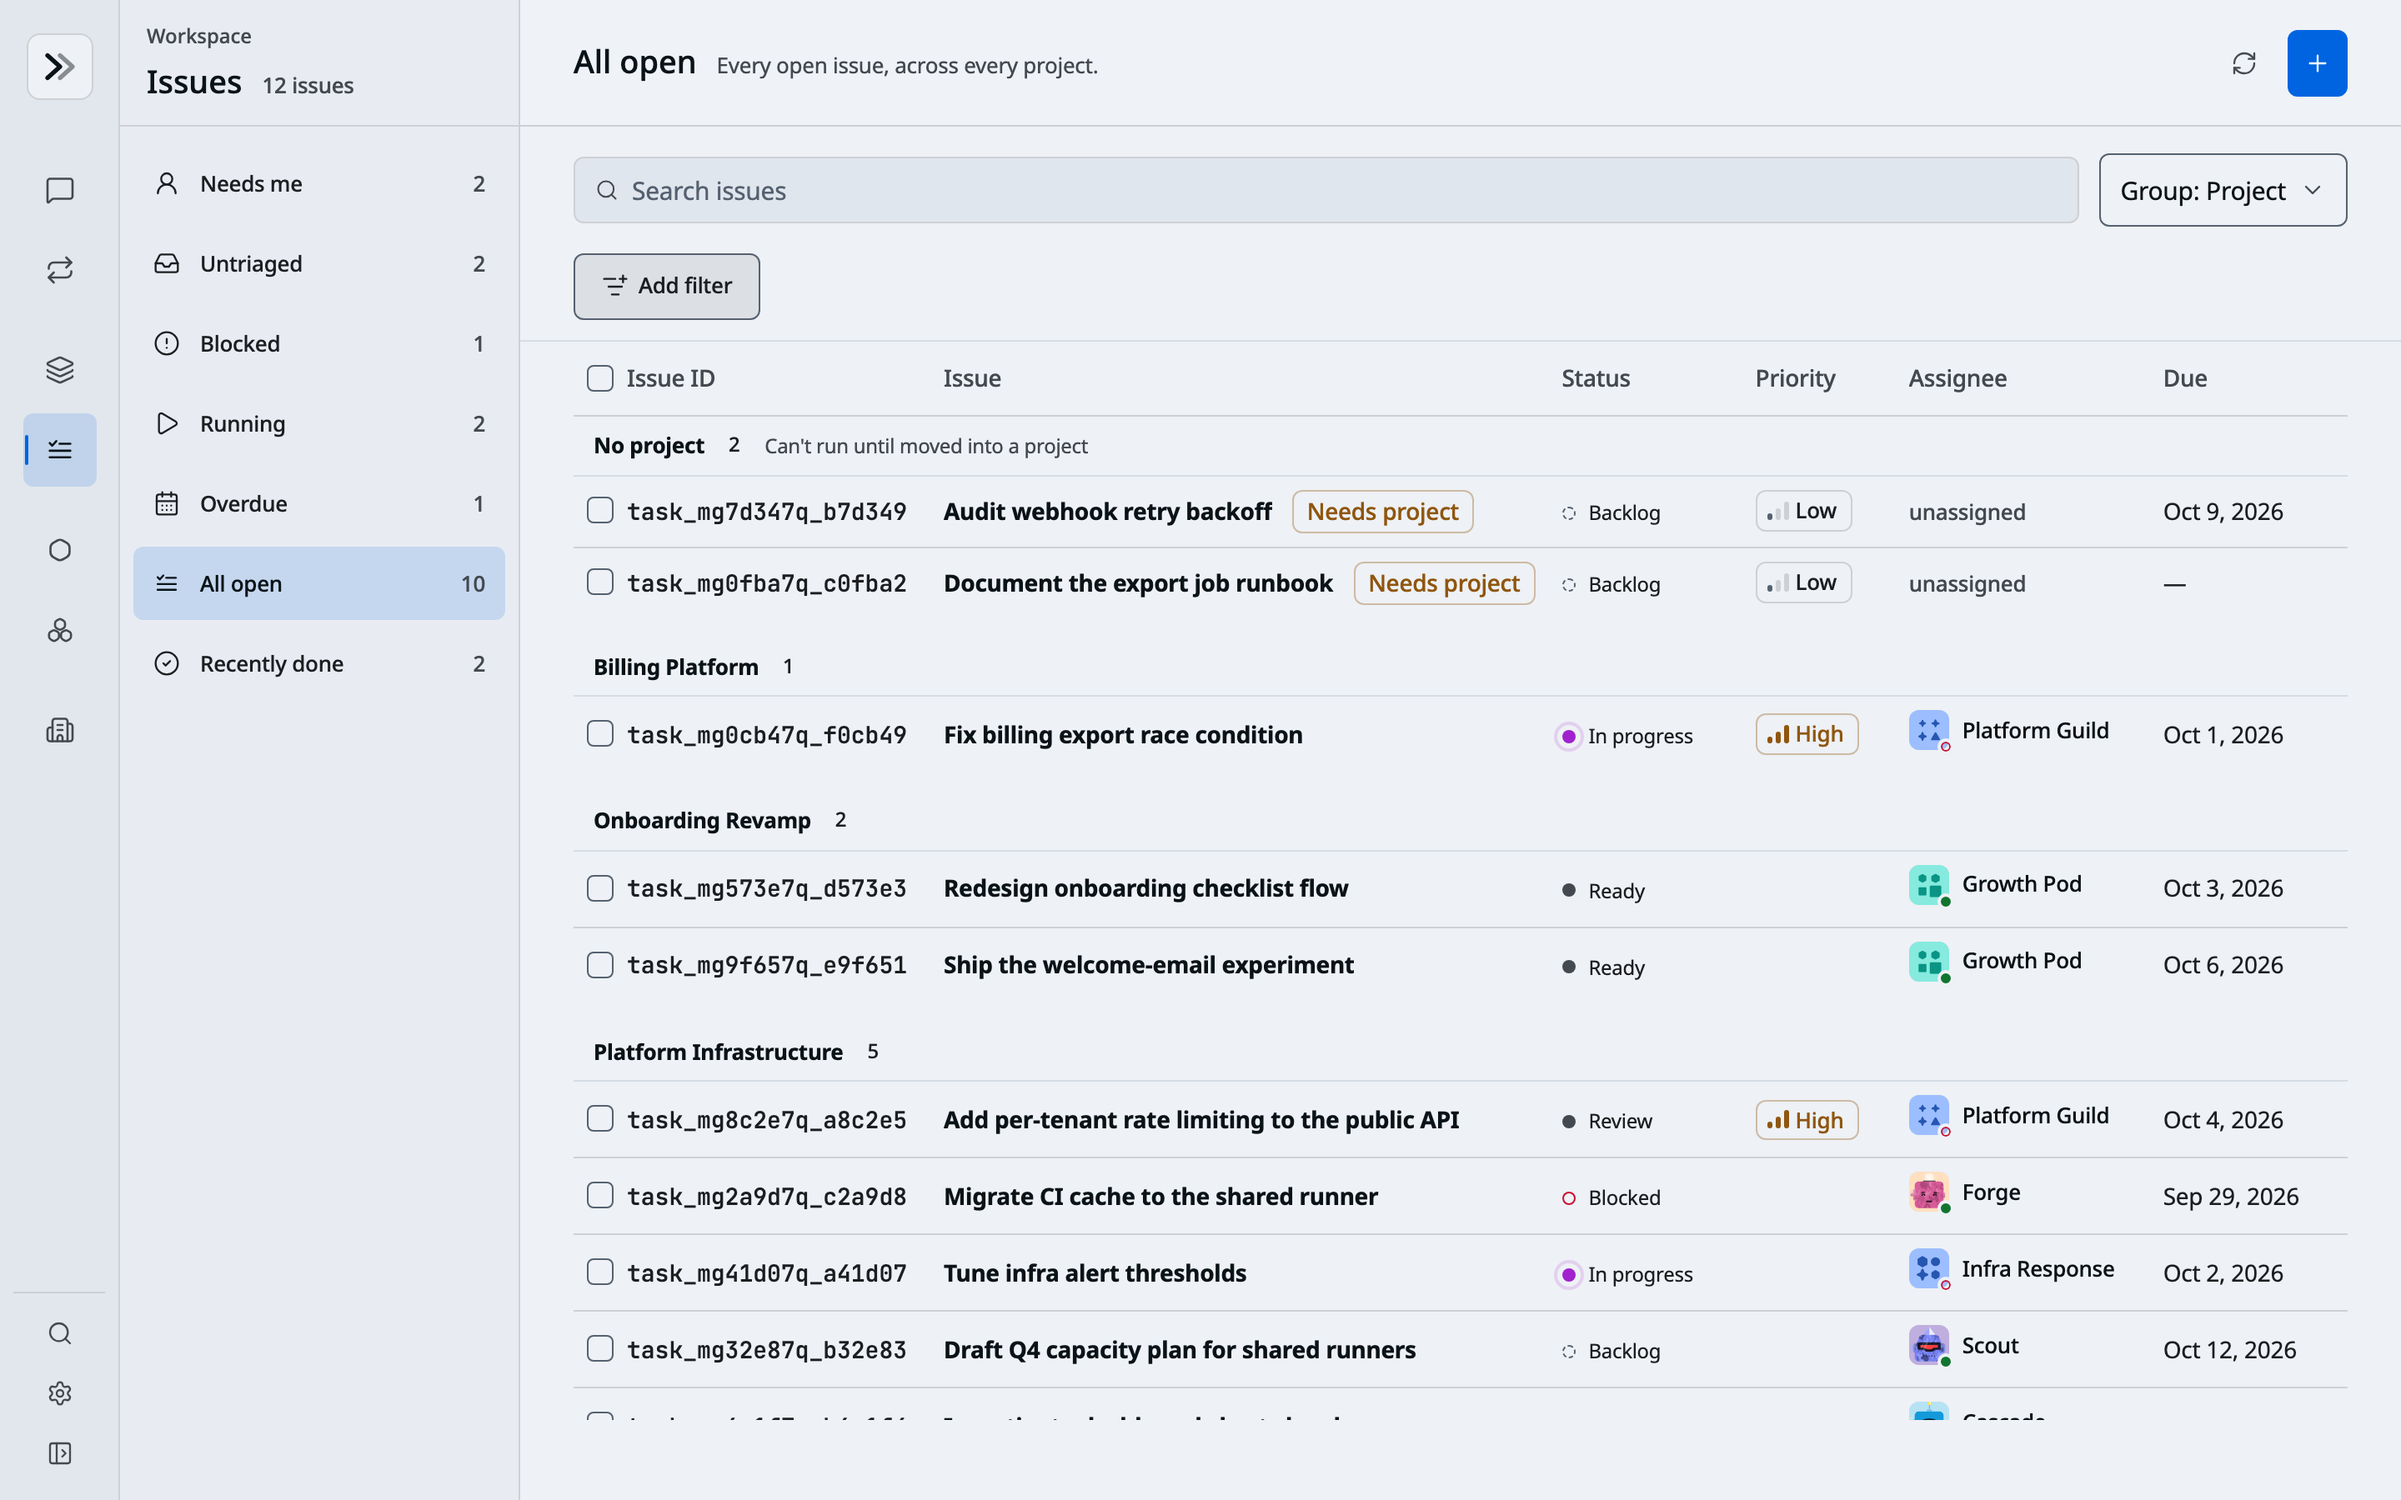
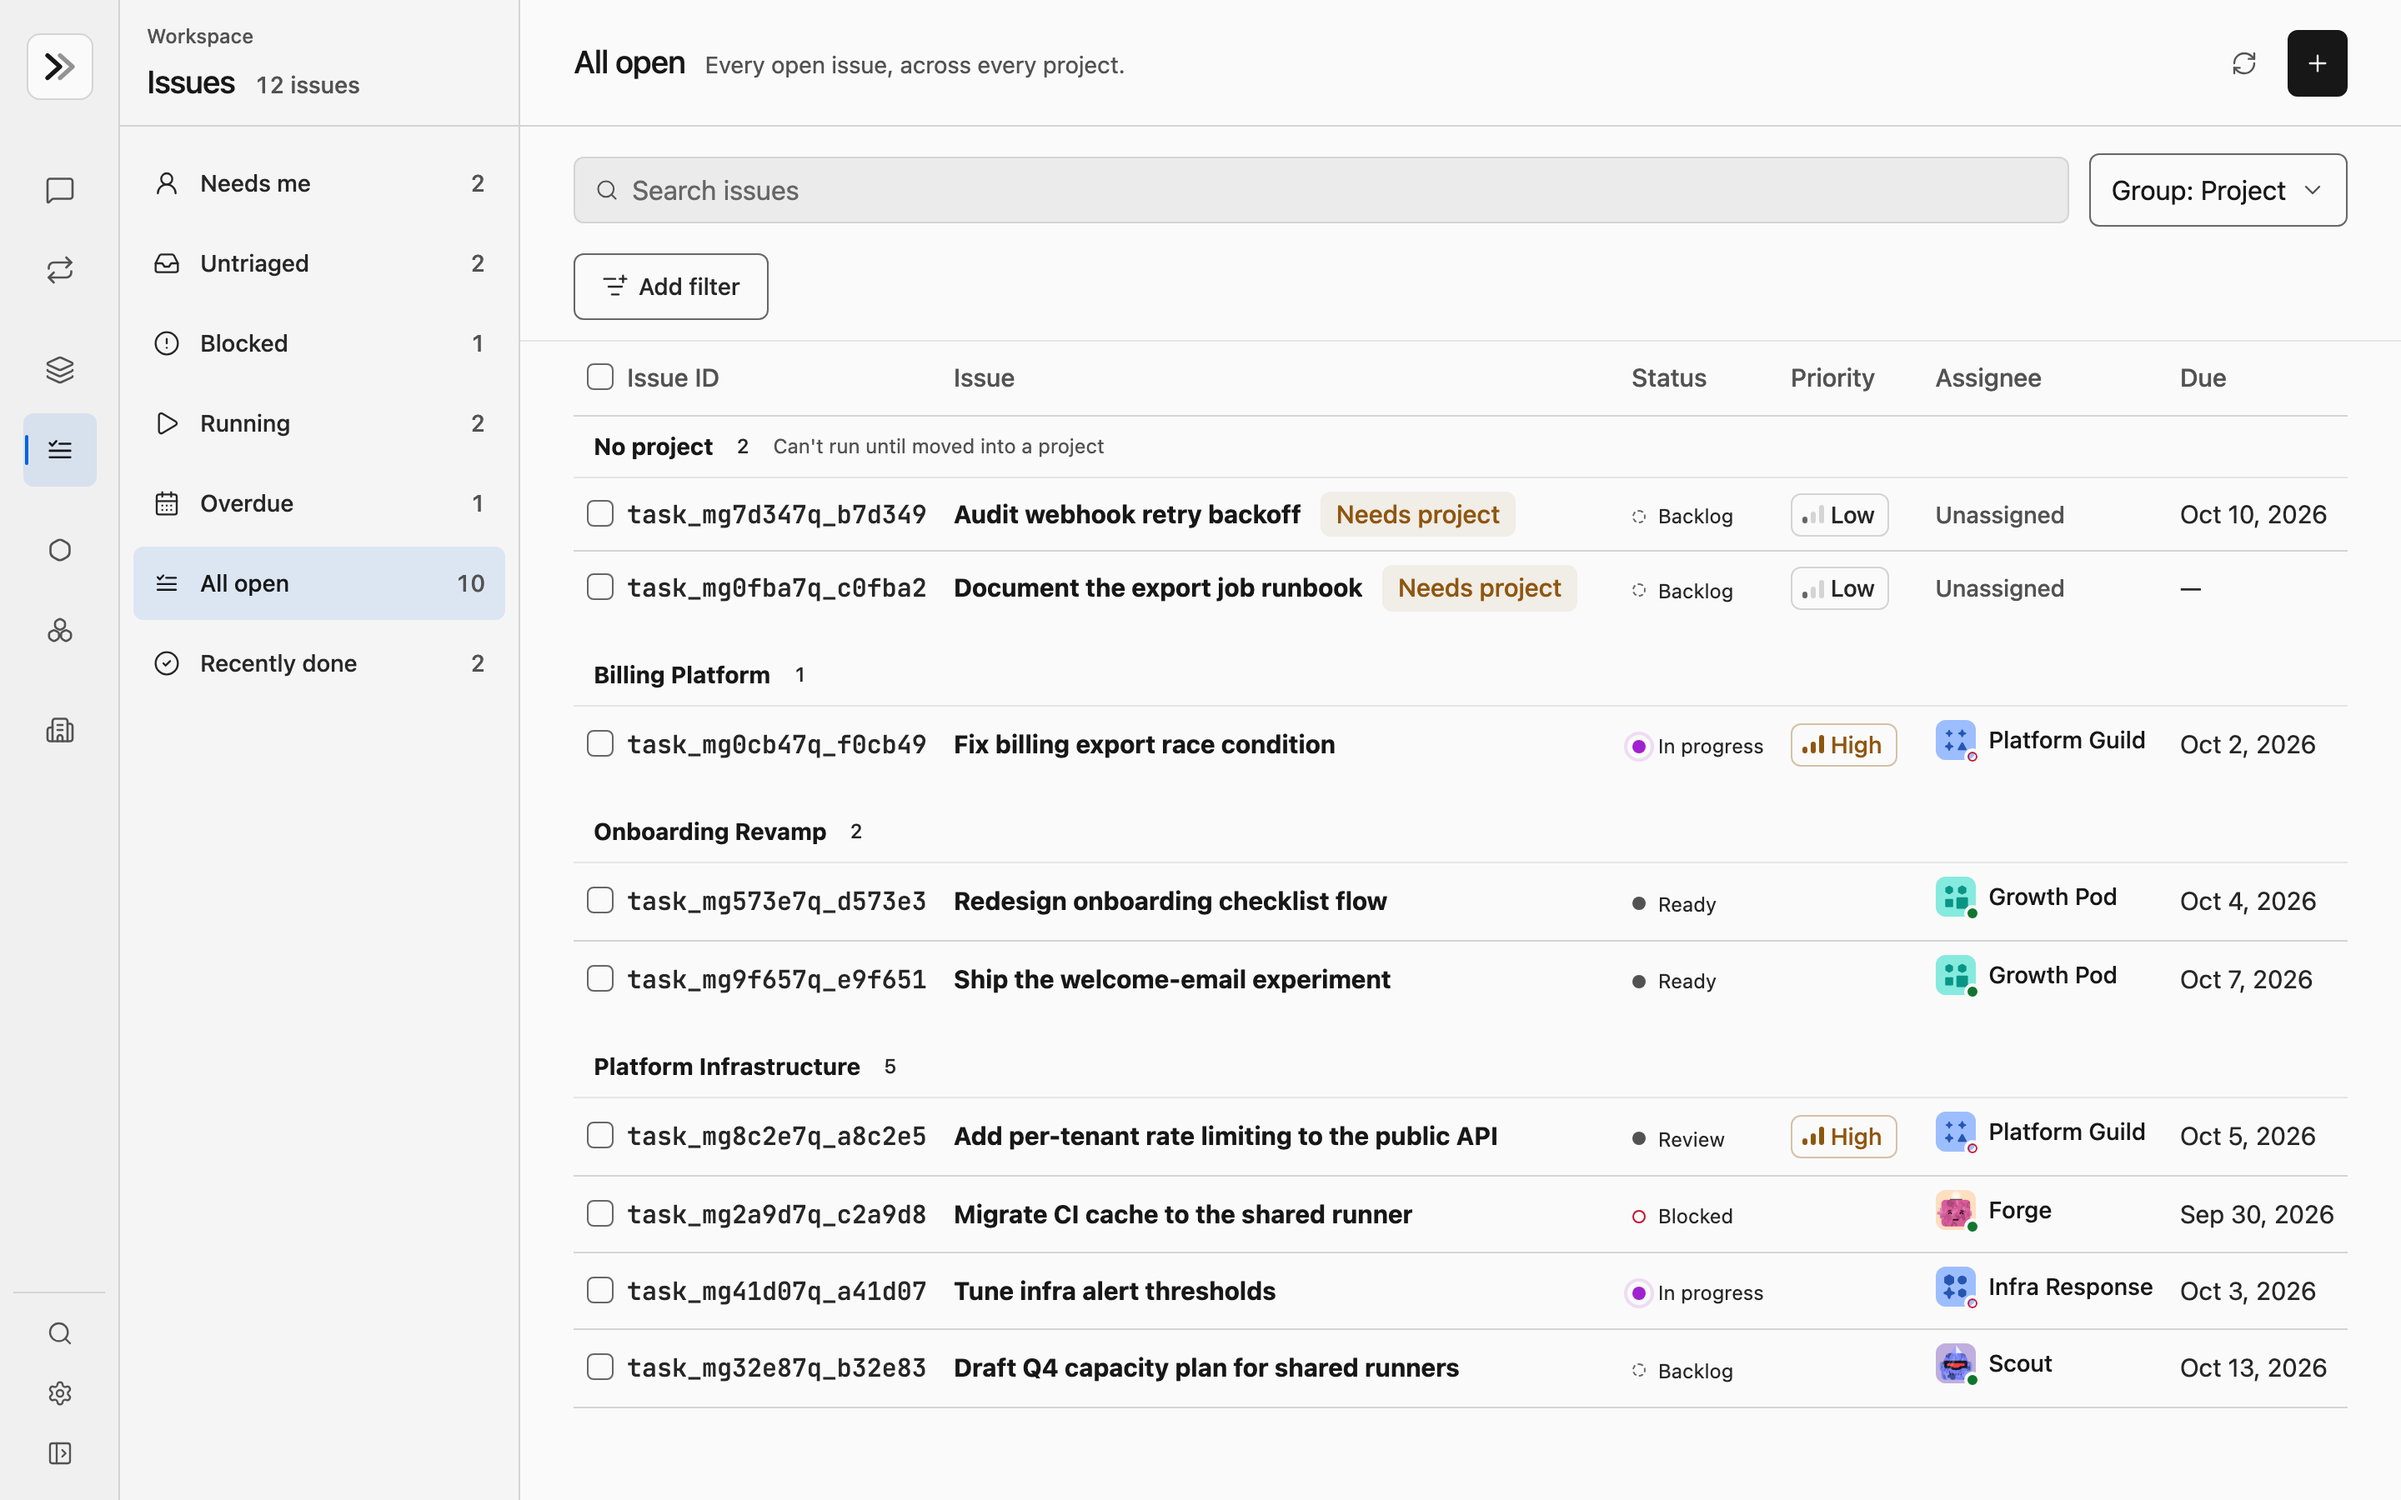
docs: simplify READMEs and refresh product screenshots

diff --git a/README.md b/README.md
@@ -30,58 +30,6 @@ Agents run where the work already lives. A Relay daemon on an employee's compute
 - **Computers** — Enroll employee or managed computers and see their health, runtimes, and running work.
 - **Administration** — Manage employees, computers, activity, and token usage from one control panel.
 
-## Architecture
-
-Relay has three layers: people work in the web UI, the backend decides and records, and daemons on real computers do the work.
-
-```mermaid
-flowchart TB
-  subgraph experience["Experience · web UI for employees and administrators"]
-    direction TB
-    threads["Threads"]
-    issues["Issues"]
-    routines["Routines"]
-    projects["Projects"]
-    workforce["Agents and teams"]
-    admin["Control panel"]
-  end
-
-  subgraph control["Control plane · Relay backend"]
-    direction TB
-    api["API and live<br/>event stream"]
-    identity["Identity and<br/>ownership"]
-    records["Sessions and tasks<br/>event log"]
-    scheduler["Routine<br/>scheduler"]
-    registry["Computer registry<br/>and dispatch"]
-    skills["Skills<br/>library"]
-  end
-
-  store[("PostgreSQL<br/>events and artifacts")]
-
-  subgraph execution["Execution plane · one Relay daemon per computer"]
-    direction TB
-    subgraph managed["Managed computer"]
-      managedDaemon["Relay daemon"]
-      managedAgents["Agent CLIs in BoxLite<br/>Claude Code · Codex<br/>Pi · Kimi"]
-      managedWorkspace["Workspace files"]
-      managedDaemon --> managedAgents --> managedWorkspace
-    end
-    subgraph local["Employee computer"]
-      localDaemon["Relay daemon"]
-      localAgents["Agent CLIs on the host<br/>Claude Code · Codex<br/>Pi · Kimi"]
-      localWorkspace["Workspace files"]
-      localDaemon --> localAgents --> localWorkspace
-    end
-  end
-
-  experience <-->|"requests · live updates"| control
-  control <-->|"commands · results"| localDaemon
-  control <-->|"commands · results"| managedDaemon
-  control --- store
-```
-
-The backend never executes an agent. It writes every state change to an event log in PostgreSQL and dispatches runs; each daemon connects out, polls for commands, runs the agent CLI in its workspace, and reports results back. See [System Architecture](docs/system-architecture.md) for details.
-
 ## Product tour
 
 <table>
